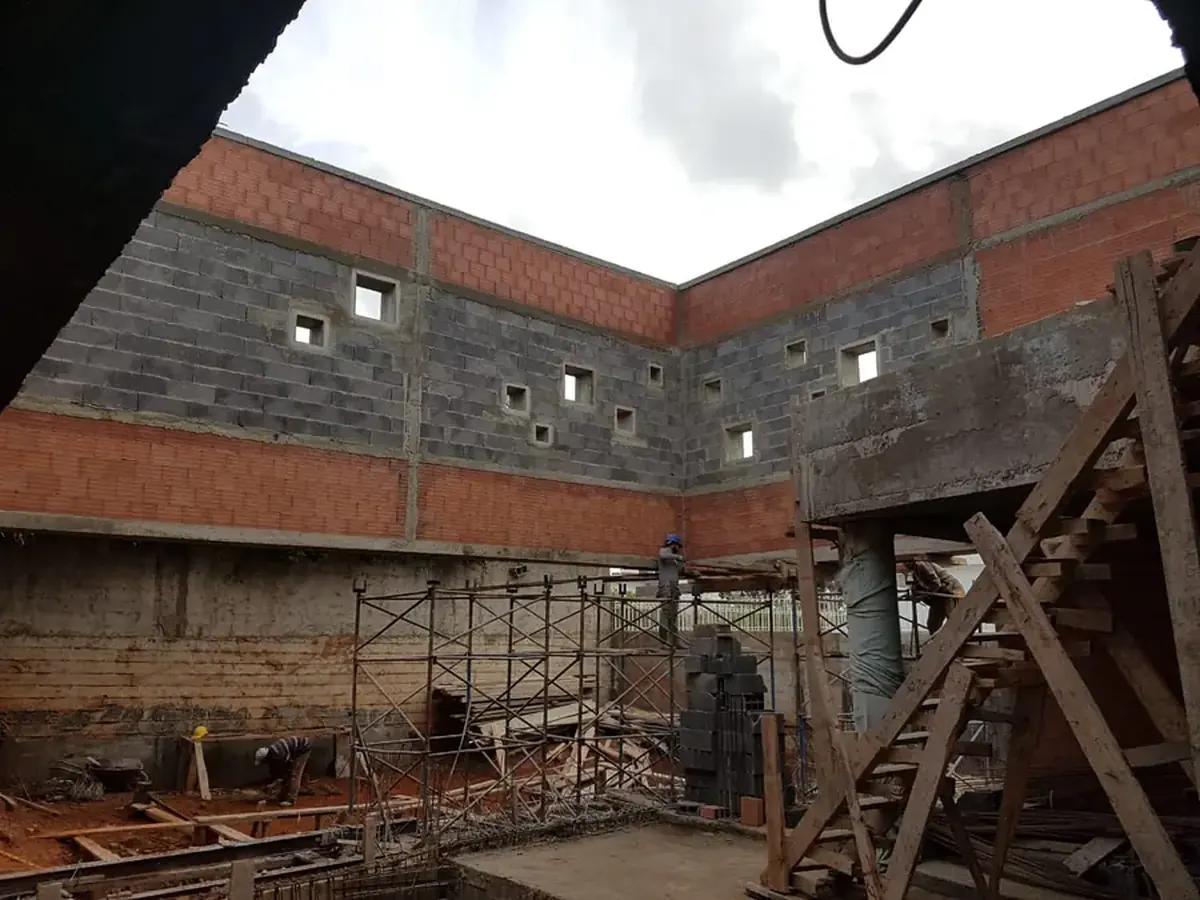
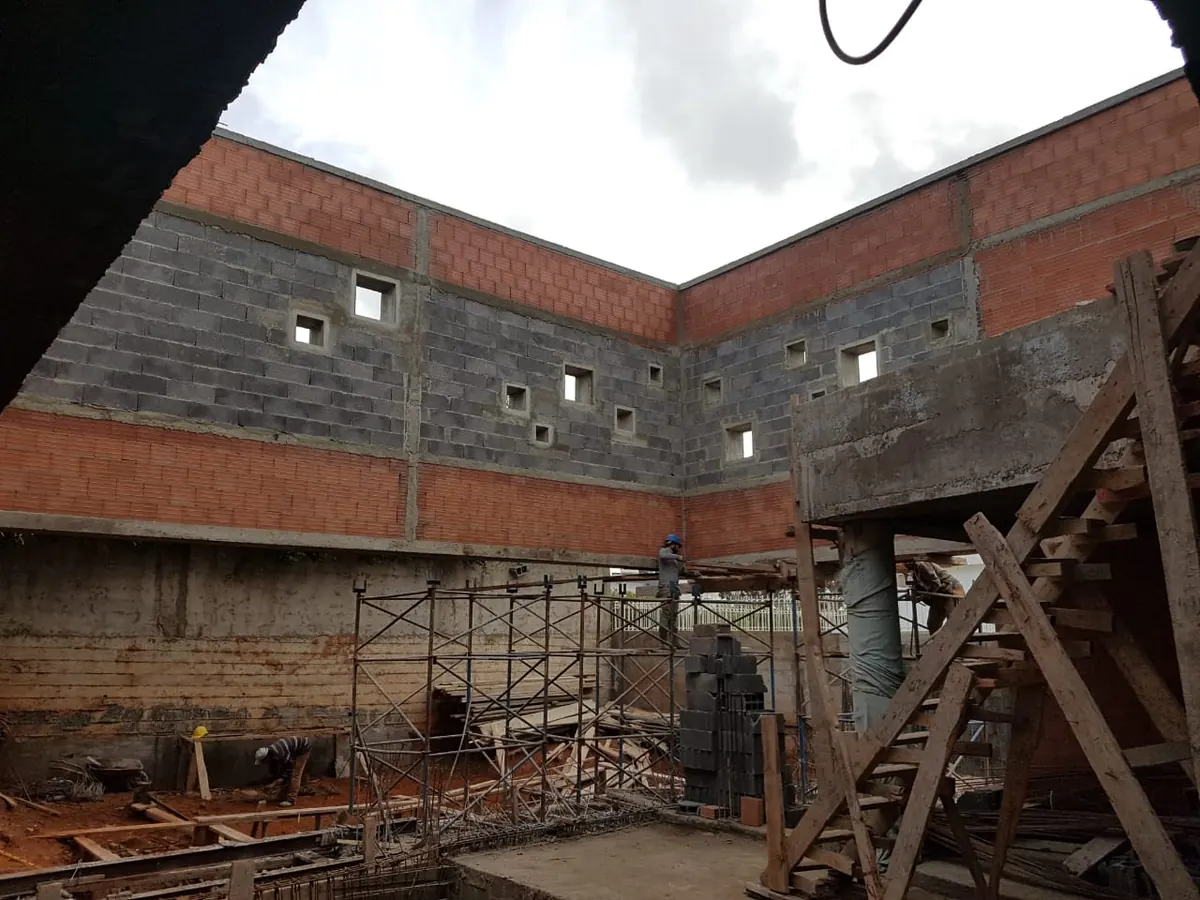
Carrousels photo pour Ambassade de Belgique, Usine Novares et Villa E
Chacun de ces trois projets passe d'une photo fixe à un carrousel de 15
diapositives, rangées comme les autres projets : l'ouvrage livré d'abord,
puis le chantier du plus avancé au plus brut (terrassement et fondations en
dernier).

Les photos viennent de trois envois du client, retrouvés grâce aux
horodatages des fichiers et aux captures de la conversation : 111 photos au
total, 110 distinctes. Pour Ambassade et Novares, la photo livrée déjà en
ligne reste en première diapositive. Quinze diapositives par projet, comme le
carrousel Huawei : c'est ce que la rangée de puces tient sur un téléphone, et
cela évite de toucher au style partagé. Les quelque 95 photos écartées sont
des quasi-doublons ou des angles redondants.

Seuls les blocs de ces trois projets changent dans index.html. Les autres
projets, qui ont été retouchés à la main depuis le dernier envoi de photos,
restent tels quels ; le script de génération réécrit tous les projets d'un
coup et n'a donc pas été relancé en entier.

Changed region(s): [[0.5858, 0.6533, 0.6475, 0.6844], [0.5242, 0.6844, 0.555, 0.7156]]

diff --git a/index.html b/index.html
@@ -498,8 +498,111 @@
     <div class="projects" data-projects>
 
       <article class="project" data-cat="design-build" data-reveal>
-        <div class="project__media">
-          <img src="assets/img/projets/ambassade/01.webp" alt="Ambassade de Belgique à Rabat construite par Wolcons" width="1200" height="900" loading="lazy" decoding="async">
+        <div class="project__media pcar">
+          <div class="pcar__viewport" data-pcar tabindex="0" role="group"
+               aria-roledescription="carrousel" aria-label="Photos du projet Ambassade de Belgique">
+            <ul class="pcar__track" data-pcar-track>
+              <li class="pcar__slide">
+                <img src="assets/img/projets/ambassade/01.webp" alt="Ambassade de Belgique à Rabat construite par Wolcons — photo 1 sur 15"
+                     width="1200" height="900" loading="lazy" decoding="async">
+              </li>
+              <li class="pcar__slide" aria-hidden="true">
+                <img src="assets/img/projets/ambassade/02.webp" alt="Ambassade de Belgique à Rabat construite par Wolcons — photo 2 sur 15"
+                     width="1200" height="900" loading="lazy" decoding="async">
+              </li>
+              <li class="pcar__slide" aria-hidden="true">
+                <img src="assets/img/projets/ambassade/03.webp" alt="Ambassade de Belgique à Rabat construite par Wolcons — photo 3 sur 15"
+                     width="1200" height="900" loading="lazy" decoding="async">
+              </li>
+              <li class="pcar__slide" aria-hidden="true">
+                <img src="assets/img/projets/ambassade/04.webp" alt="Ambassade de Belgique à Rabat construite par Wolcons — photo 4 sur 15"
+                     width="1200" height="900" loading="lazy" decoding="async">
+              </li>
+              <li class="pcar__slide" aria-hidden="true">
+                <img src="assets/img/projets/ambassade/05.webp" alt="Ambassade de Belgique à Rabat construite par Wolcons — photo 5 sur 15"
+                     width="1200" height="900" loading="lazy" decoding="async">
+              </li>
+              <li class="pcar__slide" aria-hidden="true">
+                <img src="assets/img/projets/ambassade/06.webp" alt="Ambassade de Belgique à Rabat construite par Wolcons — photo 6 sur 15"
+                     width="1200" height="900" loading="lazy" decoding="async">
+              </li>
+              <li class="pcar__slide" aria-hidden="true">
+                <img src="assets/img/projets/ambassade/07.webp" alt="Ambassade de Belgique à Rabat construite par Wolcons — photo 7 sur 15"
+                     width="1200" height="900" loading="lazy" decoding="async">
+              </li>
+              <li class="pcar__slide" aria-hidden="true">
+                <img src="assets/img/projets/ambassade/08.webp" alt="Ambassade de Belgique à Rabat construite par Wolcons — photo 8 sur 15"
+                     width="1200" height="900" loading="lazy" decoding="async">
+              </li>
+              <li class="pcar__slide" aria-hidden="true">
+                <img src="assets/img/projets/ambassade/09.webp" alt="Ambassade de Belgique à Rabat construite par Wolcons — photo 9 sur 15"
+                     width="1200" height="900" loading="lazy" decoding="async">
+              </li>
+              <li class="pcar__slide" aria-hidden="true">
+                <img src="assets/img/projets/ambassade/10.webp" alt="Ambassade de Belgique à Rabat construite par Wolcons — photo 10 sur 15"
+                     width="1200" height="900" loading="lazy" decoding="async">
+              </li>
+              <li class="pcar__slide" aria-hidden="true">
+                <img src="assets/img/projets/ambassade/11.webp" alt="Ambassade de Belgique à Rabat construite par Wolcons — photo 11 sur 15"
+                     width="1200" height="900" loading="lazy" decoding="async">
+              </li>
+              <li class="pcar__slide" aria-hidden="true">
+                <img src="assets/img/projets/ambassade/12.webp" alt="Ambassade de Belgique à Rabat construite par Wolcons — photo 12 sur 15"
+                     width="1200" height="900" loading="lazy" decoding="async">
+              </li>
+              <li class="pcar__slide" aria-hidden="true">
+                <img src="assets/img/projets/ambassade/13.webp" alt="Ambassade de Belgique à Rabat construite par Wolcons — photo 13 sur 15"
+                     width="1200" height="900" loading="lazy" decoding="async">
+              </li>
+              <li class="pcar__slide" aria-hidden="true">
+                <img src="assets/img/projets/ambassade/14.webp" alt="Ambassade de Belgique à Rabat construite par Wolcons — photo 14 sur 15"
+                     width="1200" height="900" loading="lazy" decoding="async">
+              </li>
+              <li class="pcar__slide" aria-hidden="true">
+                <img src="assets/img/projets/ambassade/15.webp" alt="Ambassade de Belgique à Rabat construite par Wolcons — photo 15 sur 15"
+                     width="1200" height="900" loading="lazy" decoding="async">
+              </li>
+            </ul>
+          </div>
+          <button type="button" class="pcar__nav pcar__nav--prev" data-pcar-prev aria-label="Photo précédente">
+            <svg viewBox="0 0 24 24" aria-hidden="true"><path d="M15 5l-7 7 7 7"/></svg>
+          </button>
+          <button type="button" class="pcar__nav pcar__nav--next" data-pcar-next aria-label="Photo suivante">
+            <svg viewBox="0 0 24 24" aria-hidden="true"><path d="M9 5l7 7-7 7"/></svg>
+          </button>
+          <div class="pcar__dots" data-pcar-dots>
+            <button type="button" class="pcar__dot is-on" data-pcar-dot="0"
+                    aria-label="Photo 1 de Ambassade de Belgique" aria-current="true"></button>
+            <button type="button" class="pcar__dot" data-pcar-dot="1"
+                    aria-label="Photo 2 de Ambassade de Belgique"></button>
+            <button type="button" class="pcar__dot" data-pcar-dot="2"
+                    aria-label="Photo 3 de Ambassade de Belgique"></button>
+            <button type="button" class="pcar__dot" data-pcar-dot="3"
+                    aria-label="Photo 4 de Ambassade de Belgique"></button>
+            <button type="button" class="pcar__dot" data-pcar-dot="4"
+                    aria-label="Photo 5 de Ambassade de Belgique"></button>
+            <button type="button" class="pcar__dot" data-pcar-dot="5"
+                    aria-label="Photo 6 de Ambassade de Belgique"></button>
+            <button type="button" class="pcar__dot" data-pcar-dot="6"
+                    aria-label="Photo 7 de Ambassade de Belgique"></button>
+            <button type="button" class="pcar__dot" data-pcar-dot="7"
+                    aria-label="Photo 8 de Ambassade de Belgique"></button>
+            <button type="button" class="pcar__dot" data-pcar-dot="8"
+                    aria-label="Photo 9 de Ambassade de Belgique"></button>
+            <button type="button" class="pcar__dot" data-pcar-dot="9"
+                    aria-label="Photo 10 de Ambassade de Belgique"></button>
+            <button type="button" class="pcar__dot" data-pcar-dot="10"
+                    aria-label="Photo 11 de Ambassade de Belgique"></button>
+            <button type="button" class="pcar__dot" data-pcar-dot="11"
+                    aria-label="Photo 12 de Ambassade de Belgique"></button>
+            <button type="button" class="pcar__dot" data-pcar-dot="12"
+                    aria-label="Photo 13 de Ambassade de Belgique"></button>
+            <button type="button" class="pcar__dot" data-pcar-dot="13"
+                    aria-label="Photo 14 de Ambassade de Belgique"></button>
+            <button type="button" class="pcar__dot" data-pcar-dot="14"
+                    aria-label="Photo 15 de Ambassade de Belgique"></button>
+          </div>
+          <span class="pcar__count" data-pcar-count aria-hidden="true">1/15</span>
           <span class="project__badge">Design &amp; Build</span>
         </div>
         <div class="project__body">
@@ -514,8 +617,111 @@
       </article>
 
       <article class="project" data-cat="design-build" data-reveal data-reveal-delay="60">
-        <div class="project__media">
-          <img src="assets/img/projets/novares-usine/01.webp" alt="Usine Novares à Kénitra réalisée par Wolcons" width="1200" height="900" loading="lazy" decoding="async">
+        <div class="project__media pcar">
+          <div class="pcar__viewport" data-pcar tabindex="0" role="group"
+               aria-roledescription="carrousel" aria-label="Photos du projet Usine Novares">
+            <ul class="pcar__track" data-pcar-track>
+              <li class="pcar__slide">
+                <img src="assets/img/projets/novares-usine/01.webp" alt="Usine Novares à Kénitra réalisée par Wolcons — photo 1 sur 15"
+                     width="1200" height="900" loading="lazy" decoding="async">
+              </li>
+              <li class="pcar__slide" aria-hidden="true">
+                <img src="assets/img/projets/novares-usine/02.webp" alt="Usine Novares à Kénitra réalisée par Wolcons — photo 2 sur 15"
+                     width="1200" height="900" loading="lazy" decoding="async">
+              </li>
+              <li class="pcar__slide" aria-hidden="true">
+                <img src="assets/img/projets/novares-usine/03.webp" alt="Usine Novares à Kénitra réalisée par Wolcons — photo 3 sur 15"
+                     width="1200" height="900" loading="lazy" decoding="async">
+              </li>
+              <li class="pcar__slide" aria-hidden="true">
+                <img src="assets/img/projets/novares-usine/04.webp" alt="Usine Novares à Kénitra réalisée par Wolcons — photo 4 sur 15"
+                     width="1200" height="900" loading="lazy" decoding="async">
+              </li>
+              <li class="pcar__slide" aria-hidden="true">
+                <img src="assets/img/projets/novares-usine/05.webp" alt="Usine Novares à Kénitra réalisée par Wolcons — photo 5 sur 15"
+                     width="1200" height="900" loading="lazy" decoding="async">
+              </li>
+              <li class="pcar__slide" aria-hidden="true">
+                <img src="assets/img/projets/novares-usine/06.webp" alt="Usine Novares à Kénitra réalisée par Wolcons — photo 6 sur 15"
+                     width="1200" height="900" loading="lazy" decoding="async">
+              </li>
+              <li class="pcar__slide" aria-hidden="true">
+                <img src="assets/img/projets/novares-usine/07.webp" alt="Usine Novares à Kénitra réalisée par Wolcons — photo 7 sur 15"
+                     width="1200" height="900" loading="lazy" decoding="async">
+              </li>
+              <li class="pcar__slide" aria-hidden="true">
+                <img src="assets/img/projets/novares-usine/08.webp" alt="Usine Novares à Kénitra réalisée par Wolcons — photo 8 sur 15"
+                     width="1200" height="900" loading="lazy" decoding="async">
+              </li>
+              <li class="pcar__slide" aria-hidden="true">
+                <img src="assets/img/projets/novares-usine/09.webp" alt="Usine Novares à Kénitra réalisée par Wolcons — photo 9 sur 15"
+                     width="1200" height="900" loading="lazy" decoding="async">
+              </li>
+              <li class="pcar__slide" aria-hidden="true">
+                <img src="assets/img/projets/novares-usine/10.webp" alt="Usine Novares à Kénitra réalisée par Wolcons — photo 10 sur 15"
+                     width="1200" height="900" loading="lazy" decoding="async">
+              </li>
+              <li class="pcar__slide" aria-hidden="true">
+                <img src="assets/img/projets/novares-usine/11.webp" alt="Usine Novares à Kénitra réalisée par Wolcons — photo 11 sur 15"
+                     width="1200" height="900" loading="lazy" decoding="async">
+              </li>
+              <li class="pcar__slide" aria-hidden="true">
+                <img src="assets/img/projets/novares-usine/12.webp" alt="Usine Novares à Kénitra réalisée par Wolcons — photo 12 sur 15"
+                     width="1200" height="900" loading="lazy" decoding="async">
+              </li>
+              <li class="pcar__slide" aria-hidden="true">
+                <img src="assets/img/projets/novares-usine/13.webp" alt="Usine Novares à Kénitra réalisée par Wolcons — photo 13 sur 15"
+                     width="1200" height="900" loading="lazy" decoding="async">
+              </li>
+              <li class="pcar__slide" aria-hidden="true">
+                <img src="assets/img/projets/novares-usine/14.webp" alt="Usine Novares à Kénitra réalisée par Wolcons — photo 14 sur 15"
+                     width="1200" height="900" loading="lazy" decoding="async">
+              </li>
+              <li class="pcar__slide" aria-hidden="true">
+                <img src="assets/img/projets/novares-usine/15.webp" alt="Usine Novares à Kénitra réalisée par Wolcons — photo 15 sur 15"
+                     width="1200" height="900" loading="lazy" decoding="async">
+              </li>
+            </ul>
+          </div>
+          <button type="button" class="pcar__nav pcar__nav--prev" data-pcar-prev aria-label="Photo précédente">
+            <svg viewBox="0 0 24 24" aria-hidden="true"><path d="M15 5l-7 7 7 7"/></svg>
+          </button>
+          <button type="button" class="pcar__nav pcar__nav--next" data-pcar-next aria-label="Photo suivante">
+            <svg viewBox="0 0 24 24" aria-hidden="true"><path d="M9 5l7 7-7 7"/></svg>
+          </button>
+          <div class="pcar__dots" data-pcar-dots>
+            <button type="button" class="pcar__dot is-on" data-pcar-dot="0"
+                    aria-label="Photo 1 de Usine Novares" aria-current="true"></button>
+            <button type="button" class="pcar__dot" data-pcar-dot="1"
+                    aria-label="Photo 2 de Usine Novares"></button>
+            <button type="button" class="pcar__dot" data-pcar-dot="2"
+                    aria-label="Photo 3 de Usine Novares"></button>
+            <button type="button" class="pcar__dot" data-pcar-dot="3"
+                    aria-label="Photo 4 de Usine Novares"></button>
+            <button type="button" class="pcar__dot" data-pcar-dot="4"
+                    aria-label="Photo 5 de Usine Novares"></button>
+            <button type="button" class="pcar__dot" data-pcar-dot="5"
+                    aria-label="Photo 6 de Usine Novares"></button>
+            <button type="button" class="pcar__dot" data-pcar-dot="6"
+                    aria-label="Photo 7 de Usine Novares"></button>
+            <button type="button" class="pcar__dot" data-pcar-dot="7"
+                    aria-label="Photo 8 de Usine Novares"></button>
+            <button type="button" class="pcar__dot" data-pcar-dot="8"
+                    aria-label="Photo 9 de Usine Novares"></button>
+            <button type="button" class="pcar__dot" data-pcar-dot="9"
+                    aria-label="Photo 10 de Usine Novares"></button>
+            <button type="button" class="pcar__dot" data-pcar-dot="10"
+                    aria-label="Photo 11 de Usine Novares"></button>
+            <button type="button" class="pcar__dot" data-pcar-dot="11"
+                    aria-label="Photo 12 de Usine Novares"></button>
+            <button type="button" class="pcar__dot" data-pcar-dot="12"
+                    aria-label="Photo 13 de Usine Novares"></button>
+            <button type="button" class="pcar__dot" data-pcar-dot="13"
+                    aria-label="Photo 14 de Usine Novares"></button>
+            <button type="button" class="pcar__dot" data-pcar-dot="14"
+                    aria-label="Photo 15 de Usine Novares"></button>
+          </div>
+          <span class="pcar__count" data-pcar-count aria-hidden="true">1/15</span>
           <span class="project__badge">Design &amp; Build</span>
         </div>
         <div class="project__body">
@@ -993,8 +1199,111 @@
       </article>
 
       <article class="project" data-cat="construction" data-reveal data-reveal-delay="60">
-        <div class="project__media">
-          <img src="assets/img/projets/villa-e/01.webp" alt="Villa E en cours de gros œuvre par Wolcons à Rabat" width="1200" height="900" loading="lazy" decoding="async">
+        <div class="project__media pcar">
+          <div class="pcar__viewport" data-pcar tabindex="0" role="group"
+               aria-roledescription="carrousel" aria-label="Photos du projet Villa E">
+            <ul class="pcar__track" data-pcar-track>
+              <li class="pcar__slide">
+                <img src="assets/img/projets/villa-e/01.webp" alt="Villa E en cours de gros œuvre par Wolcons à Rabat — photo 1 sur 15"
+                     width="1200" height="900" loading="lazy" decoding="async">
+              </li>
+              <li class="pcar__slide" aria-hidden="true">
+                <img src="assets/img/projets/villa-e/02.webp" alt="Villa E en cours de gros œuvre par Wolcons à Rabat — photo 2 sur 15"
+                     width="1200" height="900" loading="lazy" decoding="async">
+              </li>
+              <li class="pcar__slide" aria-hidden="true">
+                <img src="assets/img/projets/villa-e/03.webp" alt="Villa E en cours de gros œuvre par Wolcons à Rabat — photo 3 sur 15"
+                     width="1200" height="900" loading="lazy" decoding="async">
+              </li>
+              <li class="pcar__slide" aria-hidden="true">
+                <img src="assets/img/projets/villa-e/04.webp" alt="Villa E en cours de gros œuvre par Wolcons à Rabat — photo 4 sur 15"
+                     width="1200" height="900" loading="lazy" decoding="async">
+              </li>
+              <li class="pcar__slide" aria-hidden="true">
+                <img src="assets/img/projets/villa-e/05.webp" alt="Villa E en cours de gros œuvre par Wolcons à Rabat — photo 5 sur 15"
+                     width="1200" height="900" loading="lazy" decoding="async">
+              </li>
+              <li class="pcar__slide" aria-hidden="true">
+                <img src="assets/img/projets/villa-e/06.webp" alt="Villa E en cours de gros œuvre par Wolcons à Rabat — photo 6 sur 15"
+                     width="1200" height="900" loading="lazy" decoding="async">
+              </li>
+              <li class="pcar__slide" aria-hidden="true">
+                <img src="assets/img/projets/villa-e/07.webp" alt="Villa E en cours de gros œuvre par Wolcons à Rabat — photo 7 sur 15"
+                     width="1200" height="900" loading="lazy" decoding="async">
+              </li>
+              <li class="pcar__slide" aria-hidden="true">
+                <img src="assets/img/projets/villa-e/08.webp" alt="Villa E en cours de gros œuvre par Wolcons à Rabat — photo 8 sur 15"
+                     width="1200" height="900" loading="lazy" decoding="async">
+              </li>
+              <li class="pcar__slide" aria-hidden="true">
+                <img src="assets/img/projets/villa-e/09.webp" alt="Villa E en cours de gros œuvre par Wolcons à Rabat — photo 9 sur 15"
+                     width="1200" height="900" loading="lazy" decoding="async">
+              </li>
+              <li class="pcar__slide" aria-hidden="true">
+                <img src="assets/img/projets/villa-e/10.webp" alt="Villa E en cours de gros œuvre par Wolcons à Rabat — photo 10 sur 15"
+                     width="1200" height="900" loading="lazy" decoding="async">
+              </li>
+              <li class="pcar__slide" aria-hidden="true">
+                <img src="assets/img/projets/villa-e/11.webp" alt="Villa E en cours de gros œuvre par Wolcons à Rabat — photo 11 sur 15"
+                     width="1200" height="900" loading="lazy" decoding="async">
+              </li>
+              <li class="pcar__slide" aria-hidden="true">
+                <img src="assets/img/projets/villa-e/12.webp" alt="Villa E en cours de gros œuvre par Wolcons à Rabat — photo 12 sur 15"
+                     width="1200" height="900" loading="lazy" decoding="async">
+              </li>
+              <li class="pcar__slide" aria-hidden="true">
+                <img src="assets/img/projets/villa-e/13.webp" alt="Villa E en cours de gros œuvre par Wolcons à Rabat — photo 13 sur 15"
+                     width="1200" height="900" loading="lazy" decoding="async">
+              </li>
+              <li class="pcar__slide" aria-hidden="true">
+                <img src="assets/img/projets/villa-e/14.webp" alt="Villa E en cours de gros œuvre par Wolcons à Rabat — photo 14 sur 15"
+                     width="1200" height="900" loading="lazy" decoding="async">
+              </li>
+              <li class="pcar__slide" aria-hidden="true">
+                <img src="assets/img/projets/villa-e/15.webp" alt="Villa E en cours de gros œuvre par Wolcons à Rabat — photo 15 sur 15"
+                     width="1200" height="900" loading="lazy" decoding="async">
+              </li>
+            </ul>
+          </div>
+          <button type="button" class="pcar__nav pcar__nav--prev" data-pcar-prev aria-label="Photo précédente">
+            <svg viewBox="0 0 24 24" aria-hidden="true"><path d="M15 5l-7 7 7 7"/></svg>
+          </button>
+          <button type="button" class="pcar__nav pcar__nav--next" data-pcar-next aria-label="Photo suivante">
+            <svg viewBox="0 0 24 24" aria-hidden="true"><path d="M9 5l7 7-7 7"/></svg>
+          </button>
+          <div class="pcar__dots" data-pcar-dots>
+            <button type="button" class="pcar__dot is-on" data-pcar-dot="0"
+                    aria-label="Photo 1 de Villa E" aria-current="true"></button>
+            <button type="button" class="pcar__dot" data-pcar-dot="1"
+                    aria-label="Photo 2 de Villa E"></button>
+            <button type="button" class="pcar__dot" data-pcar-dot="2"
+                    aria-label="Photo 3 de Villa E"></button>
+            <button type="button" class="pcar__dot" data-pcar-dot="3"
+                    aria-label="Photo 4 de Villa E"></button>
+            <button type="button" class="pcar__dot" data-pcar-dot="4"
+                    aria-label="Photo 5 de Villa E"></button>
+            <button type="button" class="pcar__dot" data-pcar-dot="5"
+                    aria-label="Photo 6 de Villa E"></button>
+            <button type="button" class="pcar__dot" data-pcar-dot="6"
+                    aria-label="Photo 7 de Villa E"></button>
+            <button type="button" class="pcar__dot" data-pcar-dot="7"
+                    aria-label="Photo 8 de Villa E"></button>
+            <button type="button" class="pcar__dot" data-pcar-dot="8"
+                    aria-label="Photo 9 de Villa E"></button>
+            <button type="button" class="pcar__dot" data-pcar-dot="9"
+                    aria-label="Photo 10 de Villa E"></button>
+            <button type="button" class="pcar__dot" data-pcar-dot="10"
+                    aria-label="Photo 11 de Villa E"></button>
+            <button type="button" class="pcar__dot" data-pcar-dot="11"
+                    aria-label="Photo 12 de Villa E"></button>
+            <button type="button" class="pcar__dot" data-pcar-dot="12"
+                    aria-label="Photo 13 de Villa E"></button>
+            <button type="button" class="pcar__dot" data-pcar-dot="13"
+                    aria-label="Photo 14 de Villa E"></button>
+            <button type="button" class="pcar__dot" data-pcar-dot="14"
+                    aria-label="Photo 15 de Villa E"></button>
+          </div>
+          <span class="pcar__count" data-pcar-count aria-hidden="true">1/15</span>
           <span class="project__badge">Construction</span>
         </div>
         <div class="project__body">
